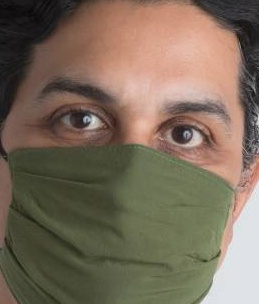
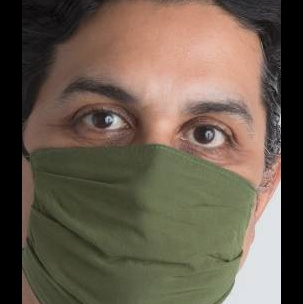
feat: Add padding to output to prevent distorion on next model

diff --git a/src/utils.py b/src/utils.py
@@ -1,12 +1,16 @@
 import numpy as np
+import cv2
 import sys
+
+PADDING_COLOR = [0,0,0]
 
 def crop_image(image, boxes):
 	'''
 	Returns:
-	0 if no face was detected
-	-1 if more than one face was detected
-	cropped face if exactly one face was detected
+		0 if no face was detected
+		-1 if more than one face was detected
+		cropped face if exactly one face was detected
+	Adds padding to make the processed image square, this prevents distortion when feeding to next model
 	'''
 	if len(boxes)==0:
 		return 0
@@ -18,4 +22,13 @@ def crop_image(image, boxes):
 		y1=boxes[0]['pt1'][1]
 		y2=boxes[0]['pt2'][1]
 		crop_img = image[y1:y2, x1:x2]
-		return crop_img
+	
+	box_height=y2-y1
+	box_width=x2-x1
+	output_side_length = max(box_width, box_height)
+	
+	pad_x=(output_side_length-box_width)//2
+	pad_y=(output_side_length-box_height)//2
+
+	processed_img= cv2.copyMakeBorder(crop_img,pad_y,pad_y,pad_x,pad_x,cv2.BORDER_CONSTANT,value=PADDING_COLOR)
+	return processed_img
